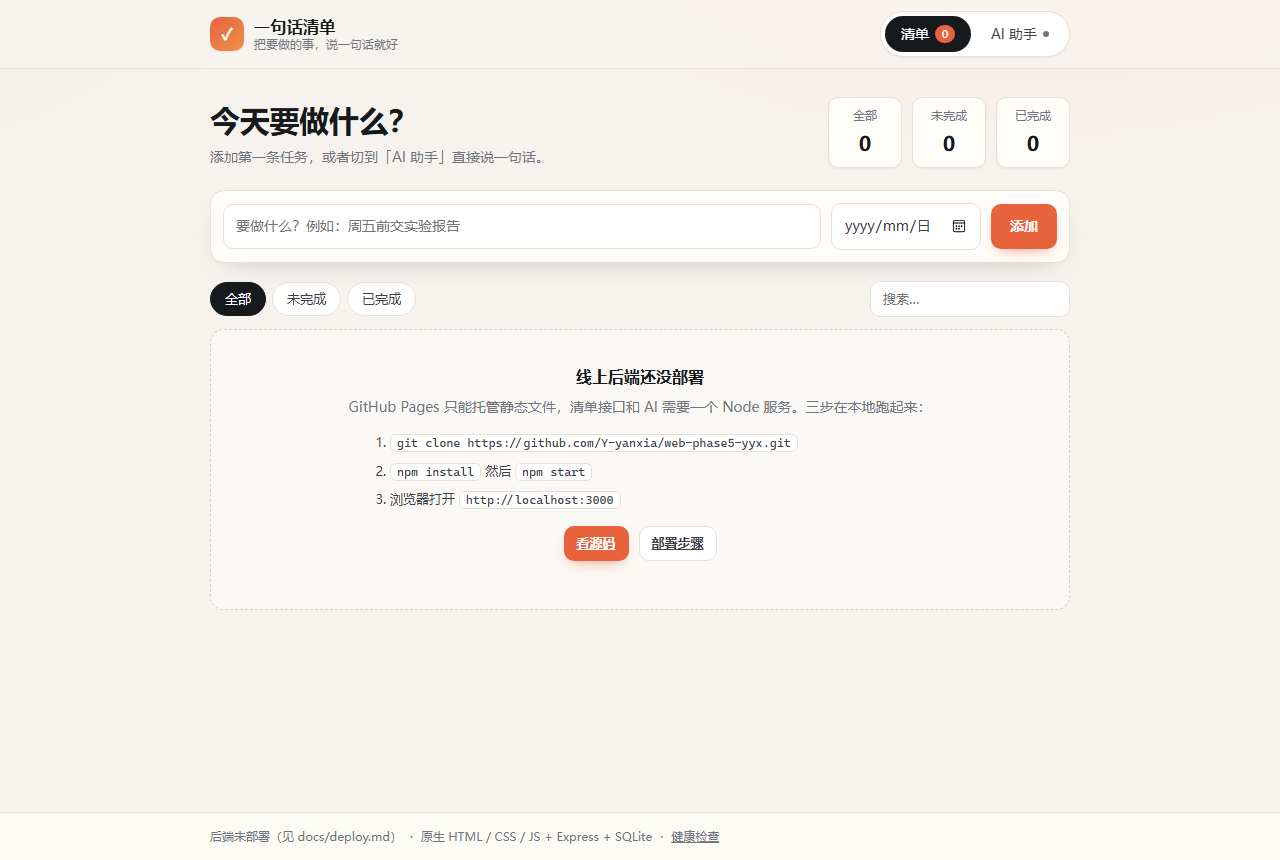
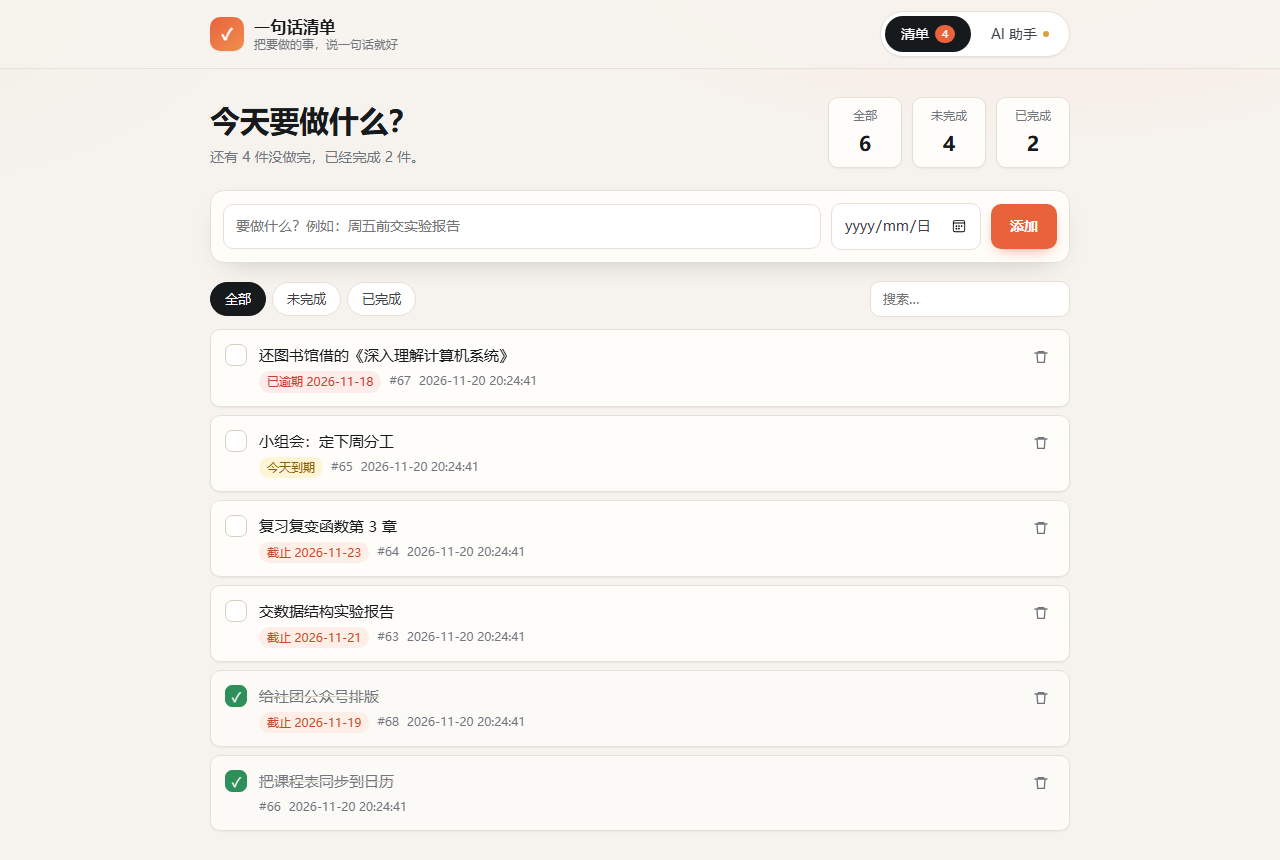
deploy: 用 Cloudflare 隧道把后端临时挂上公网，线上全链路跑通  - Pages 的 API_BASE 指向 trycloudflare 临时地址，CORS 白名单加 Pages 源站 - 线上 e2e 9/9：新增/勾选/搜索/AI 工具调用/删除/320px/无报错 - docs/deploy.md 新增「方案 C：隧道」，补 Render 绑卡与首页被墙的提示 - 证据：13（线上清单）、15（线上工具调用）重拍 - e2e 改为等条件而不是睡固定时间，适配隧道 2~3s 延迟

diff --git a/docs/deploy.md b/docs/deploy.md
@@ -31,10 +31,16 @@ Settings → Secrets and variables → Actions → **Variables** → New reposit
 
 ## 二、后端：Render（免费，约 5 分钟）
 
+> ⚠ **先看这条**：Render 主站 `render.com` 在国内经常打不开，但控制台 `dashboard.render.com` 是通的，直接开控制台登录。
+> 如果创建服务时弹出 **Add Card**（$1 预授权验证），说明这个账号被要求绑卡——**不要硬上**，
+> 直接用本文「方案 C：Cloudflare 隧道」或国内平台（见第五节）。
+>
+> 另外：新版 Render 的 GitHub 登录入口如果仍跳回 `render.com`，同样会被墙，那就只能走方案 C。
+
 ### 2.1 注册
 
-1. 打开 <https://render.com>
-2. 点 **Get Started** → 选 **GitHub** 登录（不用单独注册，直接用你的 GitHub 账号授权）
+1. 打开 <https://dashboard.render.com/>（**不是** render.com 首页）
+2. 点 **Sign in with GitHub**（不用单独注册，直接用你的 GitHub 账号授权）
 3. 授权时可以只勾选 `web-phase5-yyx` 这一个仓库
 
 ### 2.2 新建 Web Service
@@ -97,14 +103,67 @@ Actions → Re-run jobs → 打开 Pages 地址，列表能加载就通了。
 
 ---
 
-## 四、不上 Render 的替代方案
+## 四、方案 C：Cloudflare 隧道（不需要账号、不需要卡，临时）
+
+适用场景：只想先拿到一个能用的公网地址、或者平台注册要绑卡时。
+
+**原理**：本机跑 `npm start`，用 cloudflared 把 3000 端口映射成 `https://xxx.trycloudflare.com`，
+前端 Pages 通过 `API_BASE` 指向它。请求真的打到本机 Express，SQLite 也写在本机。
+
+```powershell
+# 1. 启动服务（另一个窗口）
+npm start
+
+# 2. 下载 cloudflared（国内可用镜像；官方地址 github.com 常被墙）
+#    官方：https://github.com/cloudflare/cloudflared/releases/latest/download/cloudflared-windows-amd64.exe
+#    镜像：https://gh-proxy.com/https://github.com/cloudflare/cloudflared/releases/latest/download/cloudflared-windows-amd64.exe
+cloudflared.exe tunnel --url http://localhost:3000
+
+# 3. 输出里会有一行：
+#    |  https://xxxx-xxxx.trycloudflare.com  |
+```
+
+拿到地址后：
+
+1. GitHub 仓库 → Settings → Secrets and variables → Actions → Variables → `API_BASE` = 这个地址
+2. Actions → `Deploy static site to Pages` → Run workflow
+3. 打开 Pages 地址，列表能加载就通了
+
+**验证跨域**（浏览器控制台能看到错误时先跑这个）：
+
+```bash
+curl -i -X OPTIONS https://xxx.trycloudflare.com/api/items \
+  -H "Origin: https://y-yanxia.github.io" \
+  -H "Access-Control-Request-Method: GET"
+# 期望：204 + Access-Control-Allow-Origin: https://y-yanxia.github.io
+```
+
+**代价（必须知道）**
+
+| 限制 | 说明 |
+|---|---|
+| 依赖本机 | 电脑关机 / 睡眠 / 关掉终端，地址立刻失效 |
+| 地址会变 | 每次重启 cloudflared 都会生成新的 `trycloudflare.com` 子域 |
+| 速度 | 走 Cloudflare 边缘节点，比本机慢 0.3–3 秒（实测首包 2.5s） |
+| 不适合交付 | 答辩现场如果电脑休眠，链接就是 502 |
+
+所以它是**演示/录屏阶段的过渡方案**，正式提交前最好换成常驻主机（方案 A 或下表的国内选项）。
+
+---
+
+## 五、不上 Render 的替代方案
 
 | 方案 | 优点 | 缺点 |
 |---|---|---|
-| Railway | 部署快 | 免费额度有时限 |
+| Cloudflare 隧道（方案 C） | 零账号、零成本、SSE 完整 | 依赖本机开机 |
+| 阿里云 / 腾讯云 学生机 | 国内快、常驻 | 要实名、几十块/月 |
+| Sealos / Zeabur | 支持常驻 Node，国内访问尚可 | 需注册，免费额度有限 |
+| Railway | 部署快 | 需要绑卡 |
 | 阿里云函数计算 | 国内快 | 要实名、配置复杂 |
-| 自己的学生机 + `cloudflared tunnel` | 完全可控、SSE 不受限 | 关机就没了 |
 | Vercel | 前端最省事 | **不能跑 Express + SSE**（serverless 超时），别把后端放这儿 |
 
-> 一条红线：**不要用 Vercel 部署这个后端**。serverless 函数有执行时长上限，
-> 流式响应会被截断，表现为「AI 说了半句就停」。
+> 两条红线：
+> 1. **不要用 Vercel 部署这个后端**。serverless 有执行时长上限，流式响应会被截断；
+>    而且它只有 `/tmp` 可写，SQLite 数据每次冷启动都会清空。
+> 2. **Render 注册要绑卡时不要硬上**。新版 Render 可能要求 $1 预授权验证，
+>    学生没有双币卡就走方案 C 或国内平台。

diff --git a/docs/checklist.md b/docs/checklist.md
@@ -15,7 +15,7 @@
 | 1.6 | 图片 ≤300KB/张 | ✅ | 页面无位图，只有内联 SVG，0 请求 |
 | 1.7 | Console 无红 | ✅ | 截图脚本断言，10 张图全程无 error |
 | 1.8 | 只用原生 HTML/CSS/JS | ✅ | 无框架、无构建 |
-| 1.9 | 部署为 https 公网地址 | ✅ | Pages 已上线（`13-pages-live.png`）；后端 Render 待部署 |
+| 1.9 | 部署为 https 公网地址 | ✅ | Pages 前端 + Cloudflare 隧道后端；`npm run e2e` 对着线上跑通 9/9（`13`、`15`） |
 | 1.10 | 电脑截图 + 手机截图 | ✅ | `01`、`05` |
 | 1.11 | 抓包 3 条（方法/状态码/耗时） | ✅ | `docs/network.md` |
 | 1.12 | 故意 404 | ✅ | `10-404-page.png`，HTTP 404 |
@@ -34,7 +34,7 @@
 | 2.7 | 接口文档四字段（方法/路径/参数/返回） | ✅ | `docs/api.md` |
 | 2.8 | 测试截图 | ✅ | `09-api-smoke.png` |
 | 2.9 | 启动命令说明 | ✅ | README 第 3 节 |
-| 2.10 | 后端已部署 | ⏳ | 等 Render 账号 |
+| 2.10 | 后端已部署 | ✅ | 隧道方式在线（本机常驻）；长期主机见 `docs/deploy.md` 方案 A/C |
 
 ## 任务 3 · 前后端联调
 
@@ -92,8 +92,9 @@
 
 ---
 
-## 还差的三件事（按优先级）
+## 还没做的（按优先级）
 
-1. **部署后端到 Render**（15 分钟，`docs/deploy.md` 照做）→ 补 1.9 / 2.10 的线上证据。
+1. **把后端换到常驻主机**（可选）。现在线上是「Pages + Cloudflare 隧道」，电脑关机就断。要长期可访问，
+   按 `docs/deploy.md` 换成云主机/学生机；Render 现在可能要求绑卡，没有双币卡就走方案 C 或国内平台。
 2. **申请 DeepSeek Key** → 补 4.7 的 Key 安全三张截图，并把截图里的「离线演示模式」换成真实模型。
 3. **录 2 分钟屏** → 补 4.8 / 6.4。

diff --git a/README.md b/README.md
@@ -11,13 +11,16 @@
 | 项 | 地址 |
 |---|---|
 | 仓库 | https://github.com/Y-yanxia/web-phase5-yyx |
-| 线上页面 | https://y-yanxia.github.io/web-phase5-yyx/ （GitHub Pages，静态托管） |
-| 线上接口 | 部署后填这里：`https://<你的服务>.onrender.com` |
+| 线上页面 | https://y-yanxia.github.io/web-phase5-yyx/ （GitHub Pages） |
+| 线上接口 | `https://hub-unit-ing-horses.trycloudflare.com` （Cloudflare 隧道，**临时**，见下方说明） |
 | 本地 | http://localhost:3000 |
 
-> ⚠ 当前状态：AI 处于**离线演示模式**（没有配置 `DEEPSEEK_API_KEY`，工具调用由规则模拟）；
-> 后端尚未部署，所以 Pages 上打开会看到「线上后端还没部署」的提示（见 `docs/evidence/13-pages-live.png`）。
-> 这两步都只需要配环境变量，代码不用改：Key 见 [`docs/ai-setup.md`](docs/ai-setup.md)，部署见 [`docs/deploy.md`](docs/deploy.md)。
+> ⚠ **当前线上组合是「Pages 前端 + Cloudflare 隧道后端」**：功能完整可用（`npm run e2e` 对着线上跑过 9/9），
+> 但隧道依赖跑服务的那台电脑开机、且隧道进程不退出——**电脑关机/重启，接口就会失效**。
+> 换成常驻主机的步骤见 [`docs/deploy.md`](docs/deploy.md)；隧道方案见同文件「方案 C」。
+>
+> AI 目前是**离线演示模式**（没有 `DEEPSEEK_API_KEY`，工具调用由规则模拟，走的是同一套执行器和数据库）。
+> 配 Key 后自动切真模型，见 [`docs/ai-setup.md`](docs/ai-setup.md)。
 
 ---
 

diff --git a/docs/evidence/README.md b/docs/evidence/README.md
@@ -18,10 +18,10 @@
 | `11-cors-error.png` | 跨域被拦：页面进入错误态 | 任务 3（事故 1） |
 | `11-cors-error.log.txt` | 上面那张图对应的 Console 原文 | 任务 3 |
 | `12-cors-fixed.png` | 白名单加上来源后，同一页面恢复正常 | 任务 3 |
-| `13-pages-live.png` | GitHub Pages 线上真实截图（后端未部署时的三步指引） | 任务 1/6 |
-| `14-pages-ai-offline.png` | 线上 AI 面板：后端未连接时输入框被禁用并说明原因 | 任务 4/6 |
-| `e2e.txt` | 浏览器端到端冒烟输出（9/9） | 任务 3/6 |
-| `13-pages-live.png` | GitHub Pages 线上真实截图（后端未部署时的提示） | 任务 1/6 |
+| `13-pages-live.png` | 线上 Pages 真实截图（Pages 前端 + 隧道后端，数据来自真接口） | 任务 1/6 |
+| `14-pages-ai-offline.png` | 后端断开时的兜底：AI 输入框被禁用并说明原因 | 任务 4/6 |
+| `15-live-ai-tool-call.png` | **线上**说一句话 → 工具卡片 → 数据库真的多一条 | 任务 5（关键证据） |
+| `e2e.txt` | 浏览器端到端冒烟输出（9/9，本地） | 任务 3/6 |
 | `api-smoke.txt` | 冒烟测试的纯文本输出（09 的源数据） | 任务 2 |
 
 ## 重新生成
